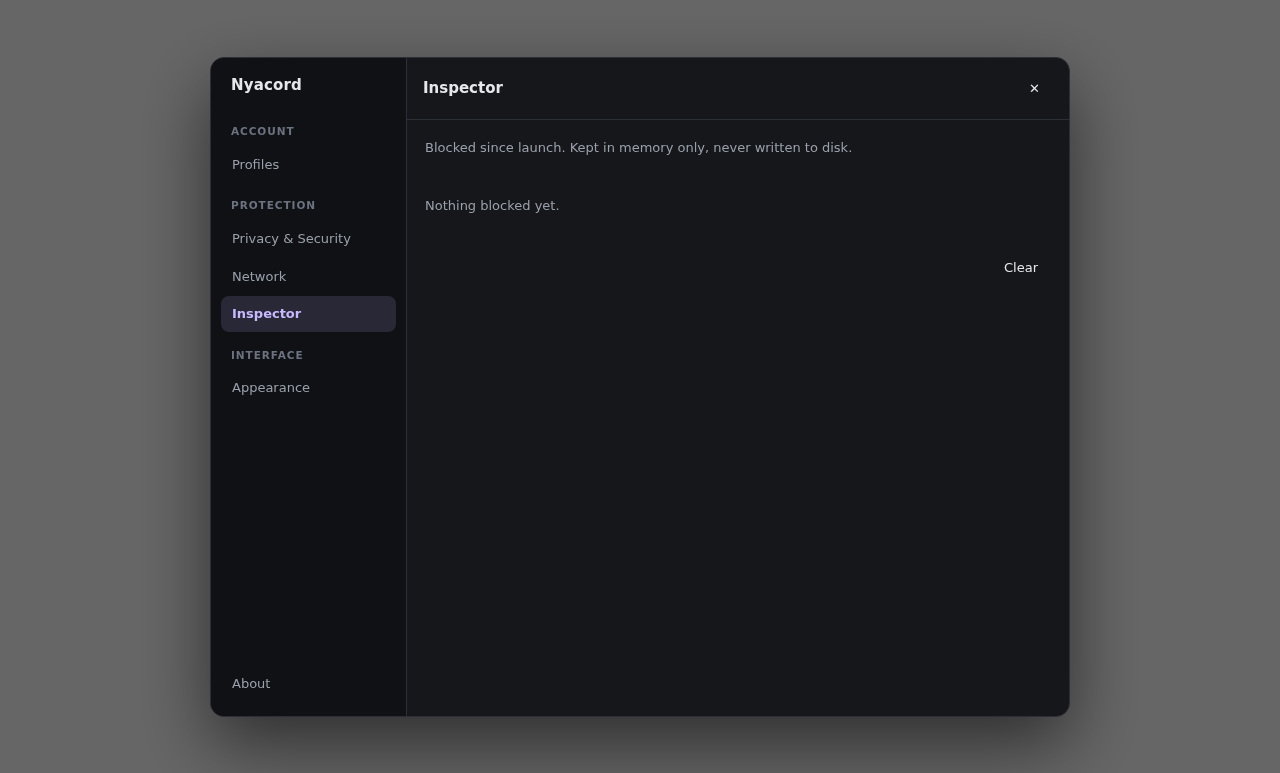
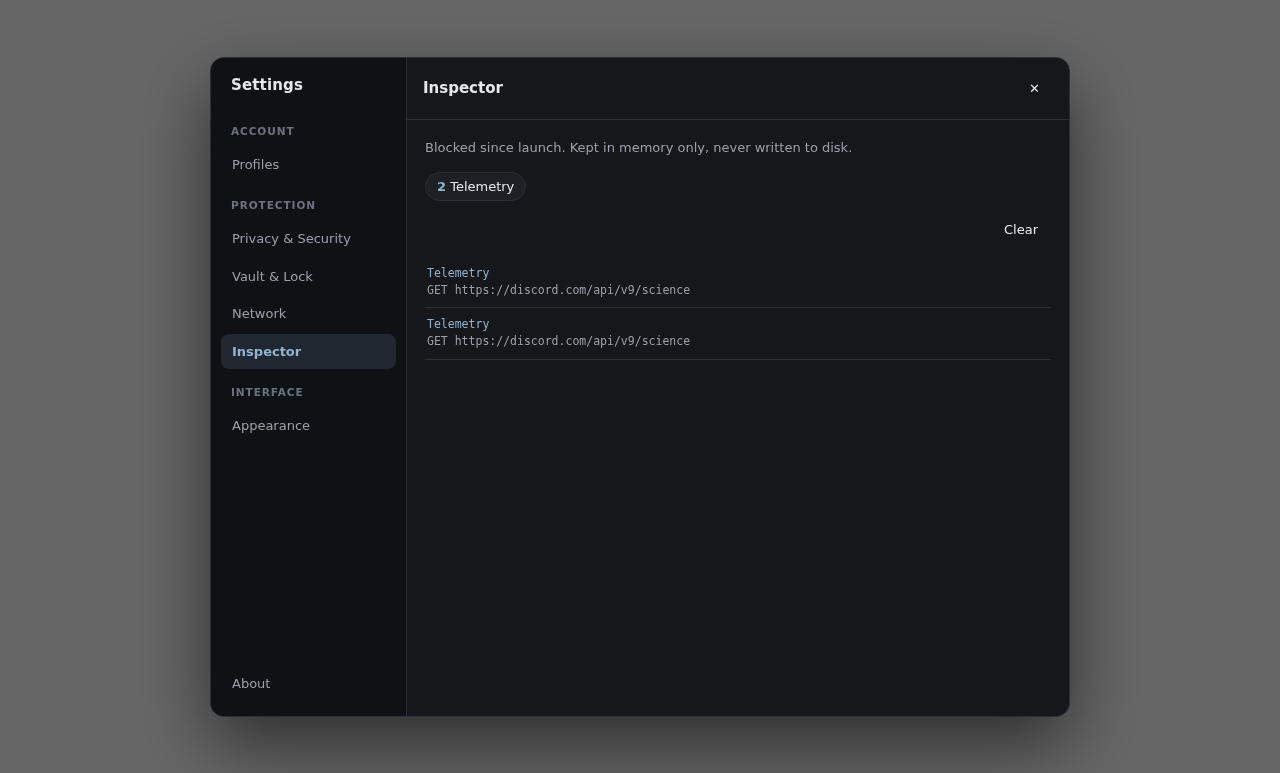
Recolour the accent from purple to a cool steel blue
--accent goes from #c8b8ff to #8fb3d1, with --accent-dim following it. Every
purple in the app tracked back to one of five places:

- the two CSS token blocks (settings panel, lock screen)
- the switcher strip's focus ring, which was Discord blurple #5865f2
- the Stable channel dot, also blurple
- a mock avatar in the layout preview, class-named "violet"
- scripts/gen-icons.mjs, which drew the crescent in the old accent and so
  produced a purple app icon and tray icon

The mock avatar's class is renamed to "slate" so the name still describes the
colour, and the icons are regenerated.

Two files had drifted to two different hardcoded darks for text drawn on the
accent, #17171c and #1a1524, the second of which was purple-tinted. Both are
now --accent-ink.

Doc screenshots regenerated on the new palette, plus one for the vault pane.
docs/screenshots/folders.png is deleted: it showed the parallel folder system
that was dropped in favour of Discord's own server folders.

Claude-Session: https://claude.ai/code/session_01PTo1HTXG5SGJbCFoQUR8eE

diff --git a/src/renderer/shell.css b/src/renderer/shell.css
@@ -8,8 +8,11 @@
   --text: #e6e7ea;
   --muted: #9aa0ab;
   --faint: #6b7280;
-  --accent: #c8b8ff;
-  --accent-dim: rgba(200, 184, 255, 0.14);
+  --accent: #8fb3d1;
+  --accent-dim: rgba(143, 179, 209, 0.14);
+  /* Text drawn on top of --accent. A token because two files had drifted to
+   * two slightly different hardcoded darks for the same job. */
+  --accent-ink: #0e1620;
   --danger: #ff8b8b;
   --radius: 10px;
   color-scheme: dark;
@@ -161,7 +164,7 @@ button:focus-visible {
 
 button.primary {
   background: var(--accent);
-  color: #17171c;
+  color: var(--accent-ink);
   font-weight: 600;
 }
 
@@ -335,7 +338,7 @@ select:focus-visible {
 
 .badge {
   background: var(--accent);
-  color: #17171c;
+  color: var(--accent-ink);
   border-radius: 999px;
   padding: 1px 8px;
   font-size: 11px;
@@ -375,7 +378,7 @@ select:focus-visible {
 }
 
 .dot.stable {
-  background: #5865f2;
+  background: #5b93c7;
 }
 
 .dot.ptb {
@@ -609,8 +612,8 @@ select:focus-visible {
   border-radius: 4px;
 }
 
-.mock-avatar.violet {
-  background: #8b7bd8;
+.mock-avatar.slate {
+  background: #6d86a8;
 }
 .mock-avatar.green {
   background: #4e9c6b;

diff --git a/src/renderer/shell.ts b/src/renderer/shell.ts
@@ -462,7 +462,7 @@ function unifiedMock(): HTMLDivElement {
       mock("mock-switcher", mockTab(true, "sm"), mockTab(false, "md")),
       mock(
         "mock-list",
-        mockRow("violet"),
+        mockRow("slate"),
         mockRow("rose", "on"),
         mockRow("green square"),
         mockRow("amber square"),
@@ -488,7 +488,7 @@ function classicMock(): HTMLDivElement {
     mock(
       "mock-list",
       mock("mock-group", caret, mock("mock-line short bright")),
-      mockRow("violet"),
+      mockRow("slate"),
       mockRow("rose", "on"),
       mockRow("cyan"),
     ),

diff --git a/src/renderer/lock.css b/src/renderer/lock.css
@@ -14,8 +14,9 @@
   --text: #e6e7ea;
   --muted: #9aa0ab;
   --faint: #6b7280;
-  --accent: #c8b8ff;
-  --accent-dim: rgba(200, 184, 255, 0.14);
+  --accent: #8fb3d1;
+  --accent-dim: rgba(143, 179, 209, 0.14);
+  --accent-ink: #0e1620;
   --danger: #ff8b8b;
   --warn: #ffcf8b;
   color-scheme: dark;
@@ -133,7 +134,7 @@ button {
 }
 
 button.primary {
-  color: #1a1524;
+  color: var(--accent-ink);
   background: var(--accent);
   border-color: transparent;
 }

diff --git a/src/renderer/switcher.css b/src/renderer/switcher.css
@@ -66,7 +66,7 @@ body {
  * an outline, not a background change the active pill already uses.
  */
 .pill:focus-visible {
-  outline: 2px solid #5865f2;
+  outline: 2px solid #5f93c4;
   outline-offset: -2px;
 }
 
